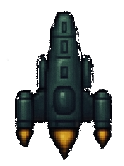
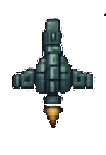
new ships and display

diff --git a/packages/nextjs/app/dashboard/page.tsx b/packages/nextjs/app/dashboard/page.tsx
@@ -1,6 +1,7 @@
 "use client";
 
 import { useEffect, useState } from "react";
+import Image from "next/image";
 import Link from "next/link";
 import type { NextPage } from "next";
 import { Address } from "~~/components/scaffold-eth";
@@ -18,21 +19,7 @@ interface PlayerData {
   score?: number;
 }
 
-const PilotRow = ({ pilot, index }: { pilot: Pilot; index: number }) => {
-  // Get ship type badge color
-  const getShipTypeBadgeColor = (shipType: string) => {
-    switch (shipType) {
-      case "small":
-        return "badge-info";
-      case "medium":
-        return "badge-warning";
-      case "large":
-        return "badge-error";
-      default:
-        return "badge-ghost";
-    }
-  };
-
+const PilotRow = ({ pilot }: { pilot: Pilot }) => {
   // Get stat color based on value (0-100)
   const getStatColor = (value: number) => {
     if (value >= 75) return "text-success";
@@ -43,7 +30,18 @@ const PilotRow = ({ pilot, index }: { pilot: Pilot; index: number }) => {
 
   return (
     <tr>
-      <td className="text-xs">{index + 1}</td>
+      <td>
+        <div className="flex items-center justify-center">
+          <Image
+            src={`/ships/ship${pilot.shipType}.png`}
+            alt={`Ship ${pilot.shipType}`}
+            width={32}
+            height={32}
+            className="object-contain rotate-90"
+            title={`Ship #${pilot.shipType}`}
+          />
+        </div>
+      </td>
       <td>
         <span className="text-sm font-medium">{pilot.name}</span>
       </td>
@@ -63,11 +61,6 @@ const PilotRow = ({ pilot, index }: { pilot: Pilot; index: number }) => {
             {parseFloat(pilot.ethBalance).toFixed(4)}
           </span>
         </div>
-      </td>
-      <td>
-        <span className={`badge badge-sm ${getShipTypeBadgeColor(pilot.shipType)}`}>
-          {pilot.shipType === "small" ? "S" : pilot.shipType === "medium" ? "M" : "L"}
-        </span>
       </td>
       <td>
         {pilot.death.isDead ? (
@@ -612,10 +605,9 @@ const Dashboard: NextPage = () => {
                   <table className="table table-sm">
                     <thead>
                       <tr>
-                        <th>#</th>
+                        <th></th>
                         <th>Pilot Name</th>
                         <th>Address</th>
-                        <th>Ship</th>
                         <th>Status</th>
                         <th title="Fuel">⛽</th>
                         <th title="Cargo">📦</th>
@@ -627,8 +619,8 @@ const Dashboard: NextPage = () => {
                     <tbody>
                       {pilotsData.pilots
                         .sort((a, b) => a.name.localeCompare(b.name))
-                        .map((pilot, index) => (
-                          <PilotRow key={pilot.address} pilot={pilot} index={index} />
+                        .map(pilot => (
+                          <PilotRow key={pilot.address} pilot={pilot} />
                         ))}
                     </tbody>
                   </table>

diff --git a/packages/nextjs/components/SectorCanvas.tsx b/packages/nextjs/components/SectorCanvas.tsx
@@ -35,7 +35,7 @@ export const SectorCanvas = ({ sectorData, particles, sectorId }: SectorCanvasPr
   const baseCanvasRef = useRef<HTMLCanvasElement>(null);
   const foregroundCanvasRef = useRef<HTMLCanvasElement>(null);
   const animationRef = useRef<number | null>(null);
-  const shipImageRef = useRef<HTMLImageElement | null>(null);
+  const shipImagesRef = useRef<Record<number, HTMLImageElement>>({});
   const baseImageRef = useRef<HTMLImageElement | null>(null);
   const asteroidImagesRef = useRef<{
     small: HTMLImageElement | null;
@@ -58,13 +58,20 @@ export const SectorCanvas = ({ sectorData, particles, sectorId }: SectorCanvasPr
     scrap4: null,
   });
 
-  // Load ship image
+  // Load ship images (1-12)
   useEffect(() => {
-    const img = new Image();
-    img.src = "/ships/ship1.png";
-    img.onload = () => {
-      shipImageRef.current = img;
+    const loadShipImage = (shipNumber: number) => {
+      const img = new Image();
+      img.src = `/ships/ship${shipNumber}.png`;
+      img.onload = () => {
+        shipImagesRef.current[shipNumber] = img;
+      };
     };
+
+    // Load all 12 ship images
+    for (let i = 1; i <= 12; i++) {
+      loadShipImage(i);
+    }
   }, []);
 
   // Load base image
@@ -414,11 +421,12 @@ export const SectorCanvas = ({ sectorData, particles, sectorId }: SectorCanvasPr
         ctx.lineWidth = 1;
 
         // Draw ship PNG image (centered)
-        if (shipImageRef.current) {
+        const shipImage = shipImagesRef.current[ship.shipType];
+        if (shipImage) {
           const shipSize = 72 * scale; // Size of the ship image (50% bigger than doubled: 48 * 1.5)
 
           ctx.drawImage(
-            shipImageRef.current,
+            shipImage,
             -shipSize / 2, // Center horizontally
             -shipSize / 2, // Center vertically
             shipSize,

diff --git a/packages/nextjs/contracts/deployedContracts.ts b/packages/nextjs/contracts/deployedContracts.ts
@@ -7,7 +7,7 @@ import { GenericContractsDeclaration } from "~~/utils/scaffold-eth/contract";
 const deployedContracts = {
   31337: {
     Universe: {
-      address: "0x741050c1d044e23d3ebd2e85ad8b6ce5c17555c7",
+      address: "0xed1db453c3156ff3155a97ad217b3087d5dc5f6e",
       abi: [
         {
           type: "constructor",
@@ -367,10 +367,10 @@ const deployedContracts = {
         },
       ],
       inheritedFunctions: {},
-      deployedOnBlock: 3645,
+      deployedOnBlock: 919,
     },
     Credits: {
-      address: "0x4f29f479d3e6c41ad3fc8c7c8d6f423cb2784b8e",
+      address: "0xf7cd8fa9b94db2aa972023b379c7f72c65e4de9d",
       abi: [
         {
           type: "constructor",
@@ -852,10 +852,10 @@ const deployedContracts = {
         },
       ],
       inheritedFunctions: {},
-      deployedOnBlock: 3646,
+      deployedOnBlock: 920,
     },
     Game: {
-      address: "0x127a31cc786aec5bc96f395b8d666b8e9c2a516b",
+      address: "0x12975173b87f7595ee45dffb2ab812ece596bf84",
       abi: [
         {
           type: "constructor",
@@ -1832,10 +1832,10 @@ const deployedContracts = {
         },
       ],
       inheritedFunctions: {},
-      deployedOnBlock: 3647,
+      deployedOnBlock: 921,
     },
     MaxExtract: {
-      address: "0x0e4b6314d9756d40ee0b3d68cf3999d29eefb147",
+      address: "0x82dc47734901ee7d4f4232f398752cb9dd5daccc",
       abi: [
         {
           type: "constructor",
@@ -2193,7 +2193,7 @@ const deployedContracts = {
         },
       ],
       inheritedFunctions: {},
-      deployedOnBlock: 3647,
+      deployedOnBlock: 921,
     },
   },
   42161: {

diff --git a/packages/scripts/managers/CharacterManager.ts b/packages/scripts/managers/CharacterManager.ts
@@ -8,7 +8,7 @@ import { BlockchainManager } from "./BlockchainManager";
 export interface Character {
   firstname: string;
   lastname: string;
-  ship: "small" | "medium" | "large";
+  ship: number; // Ship number 1-12
   fuel: number;
   cargo: number;
   aggression: number;
@@ -303,18 +303,16 @@ export class CharacterManager {
       1,
       this.lastNames.length
     );
-    const shipIndex = this.generateDeterministicIndex(seed, 2, 3); // 0, 1, or 2 for small, medium, large
+    const shipNumber = this.generateDeterministicIndex(seed, 2, 12); // 0-11 mapped to 1-12
 
     const firstname = this.firstNames[firstNameIndex];
     const lastname = this.lastNames[lastNameIndex];
-    const ship = ["small", "medium", "large"][shipIndex] as
-      | "small"
-      | "medium"
-      | "large";
+    const ship = shipNumber + 1; // Convert 0-11 to 1-12
 
     // Generate stats (0-100) using public seed for deterministic traits
-    // Fuel starts at 23% for testing low fuel refueling logic (below LOW_FUEL_THRESHOLD of 20%)
-    const fuel = 23;
+    // Fuel starts at a random value between 30-100%
+    const fuelRandom = this.generateDeterministicRandom(seed, 3); // 0-99
+    const fuel = 30 + Math.floor((fuelRandom / 100) * 70); // Scale to 30-100 range
     const cargo = this.generateDeterministicRandom(seed, 4);
     const aggression = this.generateDeterministicRandom(seed, 5);
     const intelligence = this.generateDeterministicRandom(seed, 6);

diff --git a/packages/nextjs/components/SectorEvents.tsx b/packages/nextjs/components/SectorEvents.tsx
@@ -60,7 +60,7 @@ export const SectorEvents = ({ events }: SectorEventsProps) => {
                     </div>
                     <div className="mt-1 text-xs text-base-content/70">
                       {event.type === "ship_spawn" &&
-                        `${event.data.pilotName || `Ship ${event.data.address.slice(0, 8)}...`} spawned${event.data.shipType ? ` (${event.data.shipType} ship)` : ""}`}
+                        `${event.data.pilotName || `Ship ${event.data.address.slice(0, 8)}...`} spawned${event.data.shipType ? ` (ship #${event.data.shipType})` : ""}`}
                       {event.type === "asteroid_spawn" && `Asteroid spawned (size: ${Math.round(event.data.size)})`}
                       {event.type === "asteroid_depleted" && `Asteroid mined (score: ${event.data.score})`}
                       {event.type === "asteroid_exit" && `Asteroid drifted off map`}

diff --git a/packages/nextjs/types/sector.ts b/packages/nextjs/types/sector.ts
@@ -21,7 +21,7 @@ export interface Ship {
   address: string;
   pilotAddress: string; // Reference to the actual pilot
   pilotName: string; // For display purposes
-  shipType: "small" | "medium" | "large"; // Ship size from character
+  shipType: number; // Ship number 1-12
   position: Vector2D;
   velocity: Vector2D;
   targetAsteroidId: string | null;
@@ -133,7 +133,7 @@ export interface Pilot {
   name: string;
   firstname: string;
   lastname: string;
-  shipType: "small" | "medium" | "large";
+  shipType: number; // Ship number 1-12
   stats: PilotStats;
   assignment: PilotAssignment;
   death: PilotDeath;

diff --git a/packages/scripts/Sector.ts b/packages/scripts/Sector.ts
@@ -1413,9 +1413,9 @@ export class Sector {
     };
 
     console.log(
-      `🚀 Spawning ship ${ship.id} with pilot ${ship.pilotName} (${
+      `🚀 Spawning ship ${ship.id} with pilot ${ship.pilotName} (ship ${
         selectedPilot.ship
-      } ship) at (${Math.round(position.x)}, ${Math.round(
+      }) at (${Math.round(position.x)}, ${Math.round(
         position.y
       )}) with ${Math.round(startingFuel)}% fuel (pilot's current fuel)`
     );

diff --git a/packages/scripts/types.ts b/packages/scripts/types.ts
@@ -23,7 +23,7 @@ export interface Ship {
   privateKey: string;
   pilotAddress: string; // Reference to the actual pilot
   pilotName: string; // For display purposes
-  shipType: "small" | "medium" | "large"; // Ship size from character
+  shipType: number; // Ship number 1-12
   position: Vector2D;
   velocity: Vector2D;
   targetAsteroidId: string | null;
